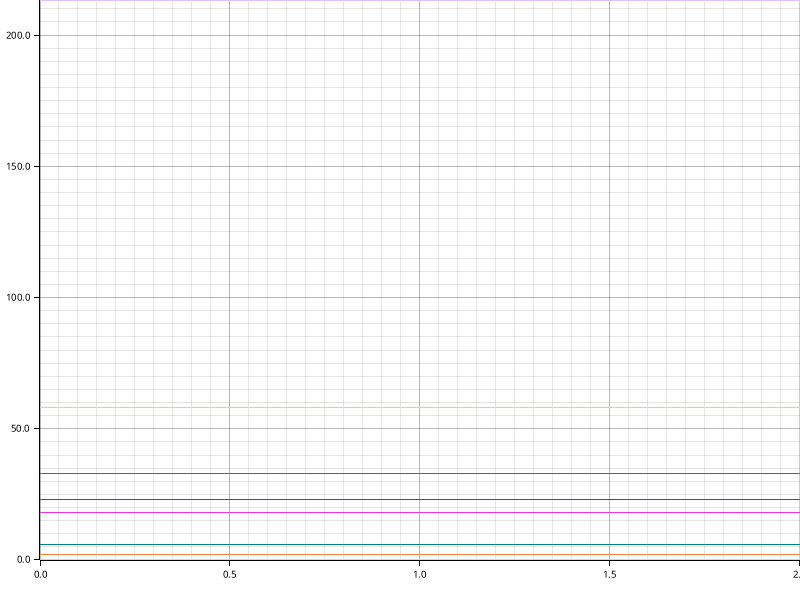
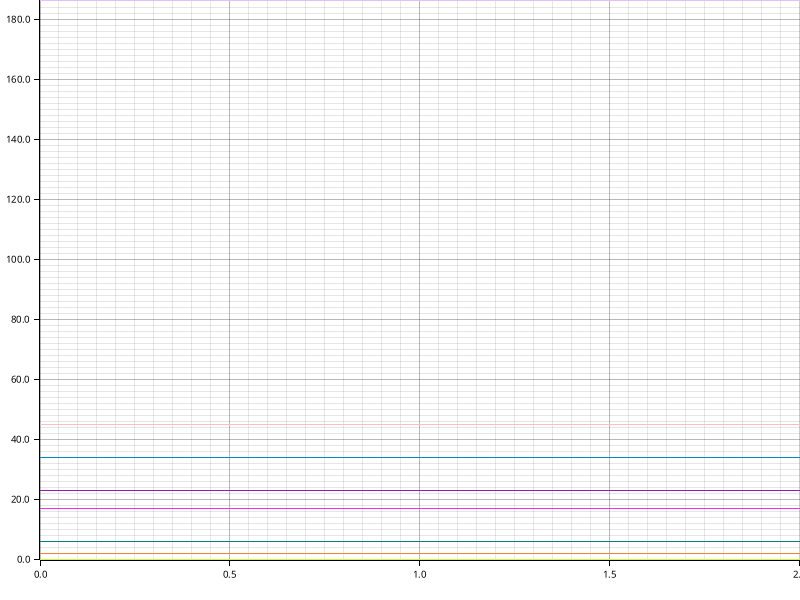
Updated time trakcing

Changed region(s): [[0.0, 0.0, 1.0, 0.93]]

diff --git a/web/core_structures/time_requirements_report.md b/web/core_structures/time_requirements_report.md
@@ -2,7 +2,7 @@
 
 The total time spent on all tasks was 5 minutes.
 
-The slowest task was `Generating Code` which took 3 minutes (59.83% of all time).
+The slowest task was `Generating Code` which took 3 minutes (58.68% of all time).
 
 ![Plot](time_requirements_report.png)
 
@@ -15,21 +15,21 @@ The slowest task was `Generating Code` which took 3 minutes (59.83% of all time)
 +-------------------------------------+------------+------------+------------+
 | Creating Taxonomical Ranks CSV      | now        | 0.00%      | Unchanged. |
 +-------------------------------------+------------+------------+------------+
-| Fetching NCBI Taxonomy              | 33 seconds | 9.27%      | Unchanged. |
+| Fetching NCBI Taxonomy              | 34 seconds | 10.73%     | Unchanged. |
 +-------------------------------------+------------+------------+------------+
-| Creating Taxonomy CSV               | now        | 0.56%      | Unchanged. |
+| Creating Taxonomy CSV               | now        | 0.63%      | Unchanged. |
 +-------------------------------------+------------+------------+------------+
-| Building SQL from CSVs              | 23 seconds | 6.46%      | Unchanged. |
+| Building SQL from CSVs              | 23 seconds | 7.26%      | Unchanged. |
 +-------------------------------------+------------+------------+------------+
 | Establishing Connection to Postgres | now        | 0.00%      | Unchanged. |
 +-------------------------------------+------------+------------+------------+
-| Executing CSQLV SQL                 | 18 seconds | 5.06%      | Unchanged. |
+| Executing CSQLV SQL                 | 17 seconds | 5.36%      | Unchanged. |
 +-------------------------------------+------------+------------+------------+
 | Executing Migrations                | now        | 0.00%      | Unchanged. |
 +-------------------------------------+------------+------------+------------+
-| Executing Meta-SQL                  | a minute   | 16.29%     | Unchanged. |
+| Executing Meta-SQL                  | 45 seconds | 14.20%     | Unchanged. |
 +-------------------------------------+------------+------------+------------+
-| Checking Constraints                | now        | 1.69%      | Unchanged. |
+| Checking Constraints                | now        | 1.89%      | Unchanged. |
 +-------------------------------------+------------+------------+------------+
-| Generating Code                     | 3 minutes  | 59.83%     | Unchanged. |
+| Generating Code                     | 3 minutes  | 58.68%     | Unchanged. |
 +-------------------------------------+------------+------------+------------+
